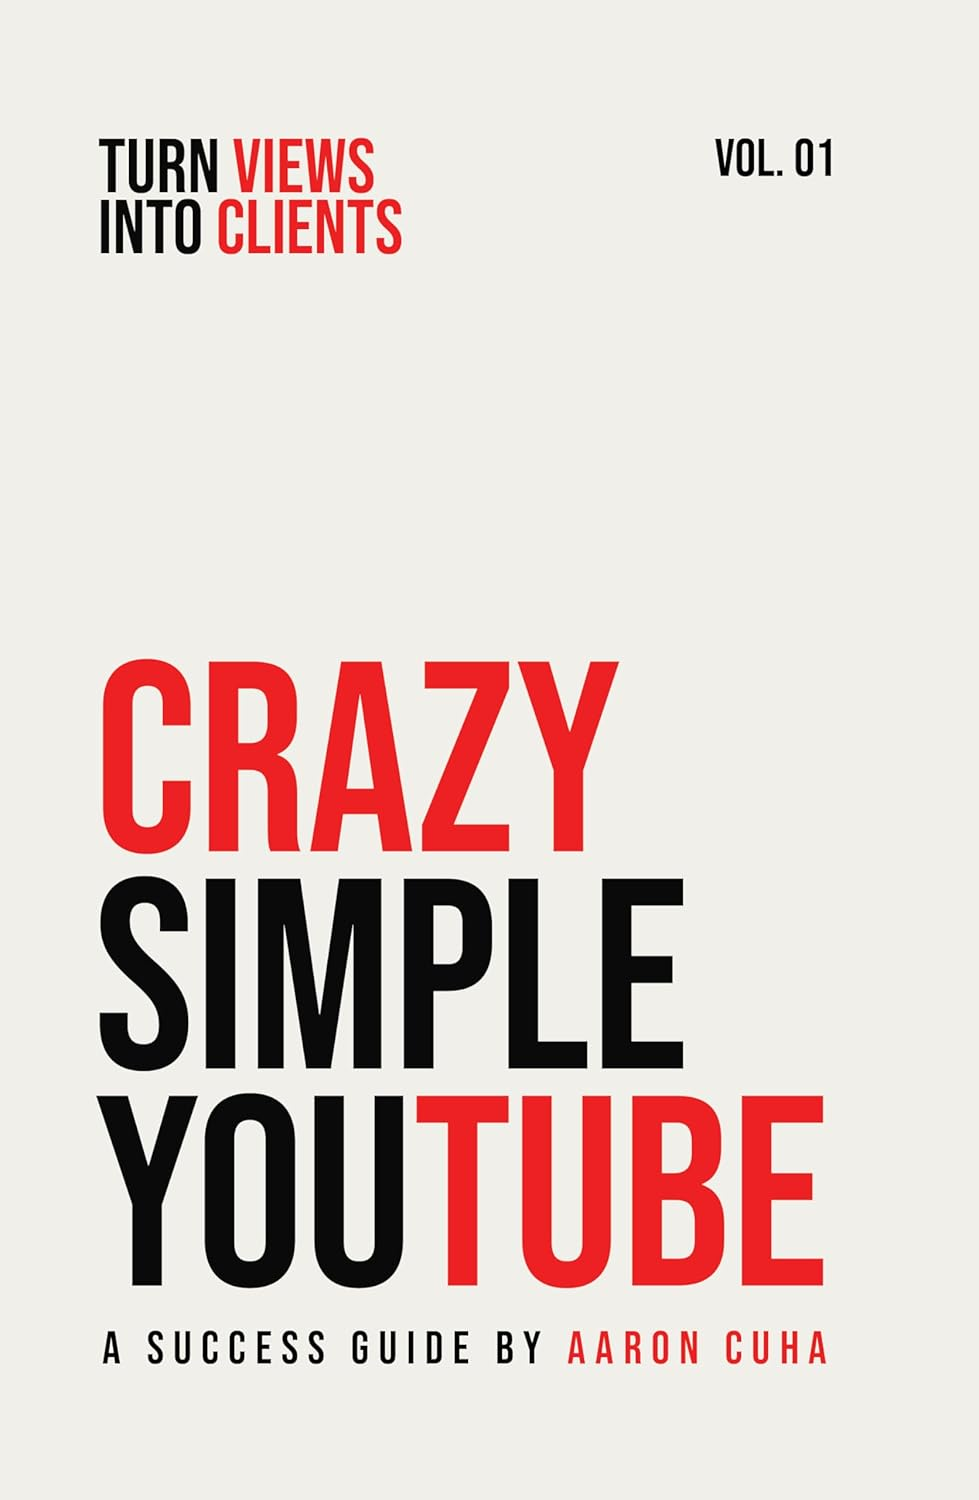
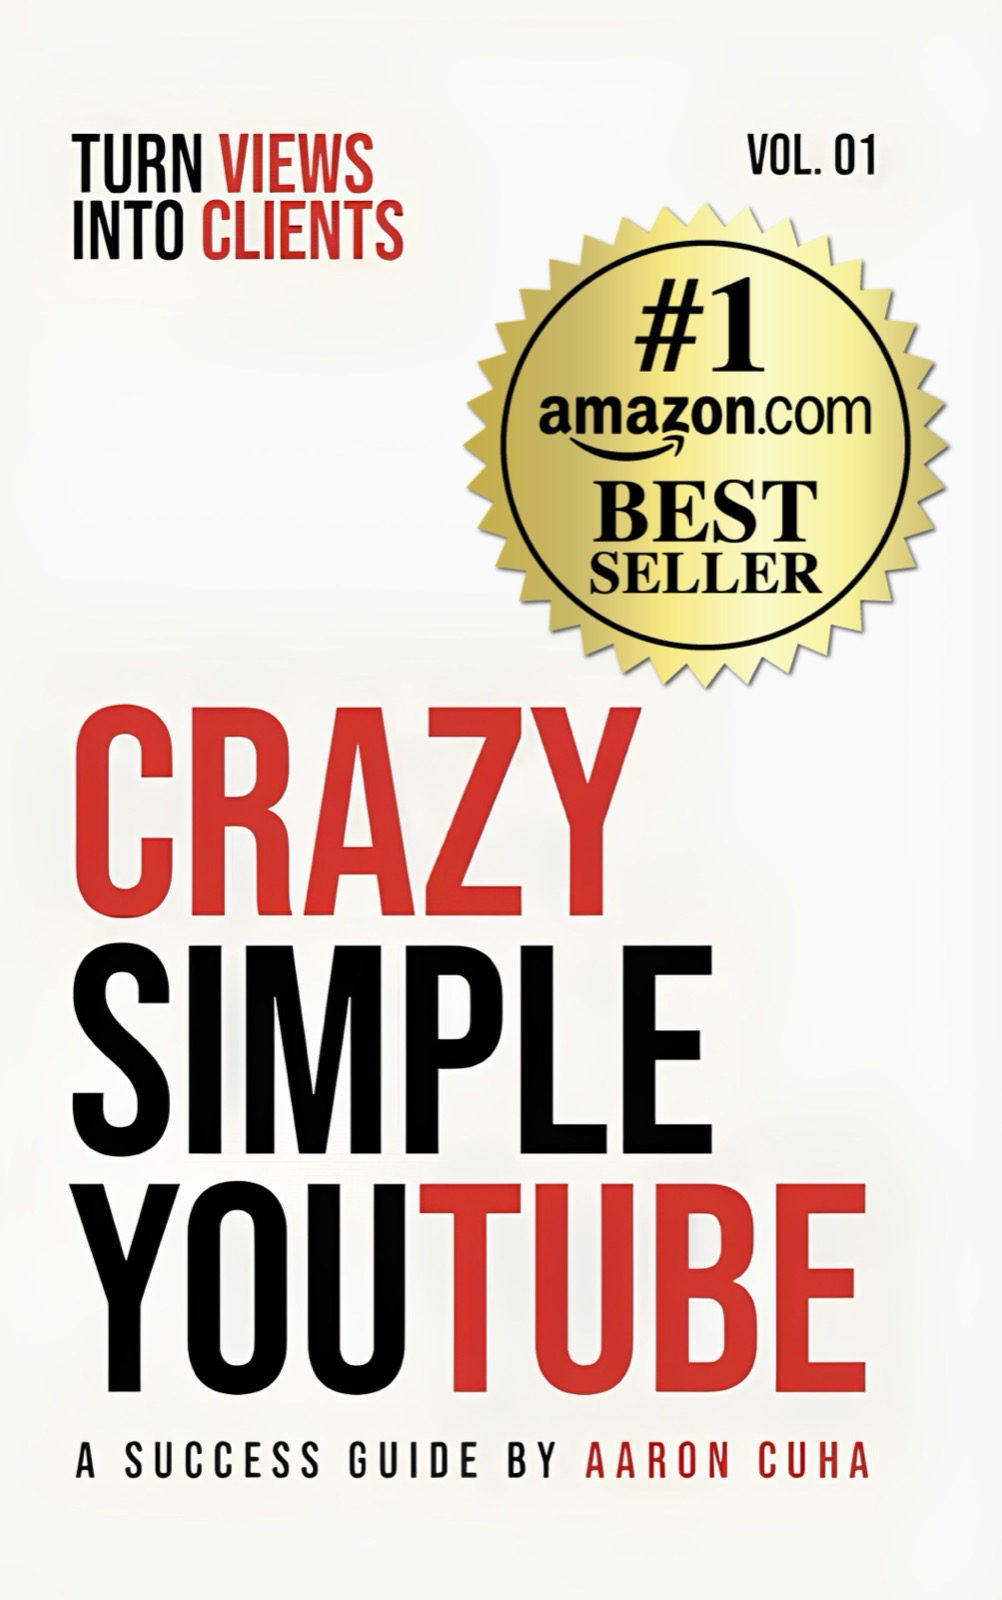
New book covers: Vol. 1 with bestseller seal + Vol. 2 cover
Replaced /public/book-cover.jpg and /public/book-display.jpg with
the updated Vol. 1 cover featuring the #1 Amazon Bestseller seal.

Added /public/book2-cover.jpg with the new Vol. 2 cover.

/book2 page updated to match the new cover:
- Title now reads 'From Clients Into Income' (Vol. 2 subtitle)
- Eyebrow reads 'Crazy Simple YouTube · Vol. 2'
- New grid layout shows the Vol. 2 cover image on the right (mobile:
  above the copy) with a 'Vol. 2 · Coming Soon' badge
- Copy reframed around Vol. 2's content (monetization, team, multi-
  channel, media empire) instead of the previous Set in Stone teaser
- Metadata title + description updated for SEO

Hero alt text updated to reflect #1 Amazon Bestseller status.

Changed region(s): [[0.0613, 0.0613, 0.9499, 0.92], [0.0613, 0.0613, 0.429, 0.184]]

diff --git a/app/book2/page.tsx b/app/book2/page.tsx
@@ -1,12 +1,13 @@
 import type { Metadata } from 'next'
+import Image from 'next/image'
 import Navigation from '@/components/Navigation'
 import Footer from '@/components/Footer'
 import LeadCaptureForm from '@/components/LeadCaptureForm'
 
 export const metadata: Metadata = {
-  title: 'What\'s Next | Aaron Cuha\'s Next Book',
+  title: 'Crazy Simple YouTube Vol. 2 — From Clients Into Income | Aaron Cuha',
   description:
-    'Get notified when Aaron\'s next book drops. Set in Stone is coming. Drop your email for early access pricing and bonus materials.',
+    'Get notified when Crazy Simple YouTube Vol. 2: From Clients Into Income drops. Drop your email for the first chapter free, pre-order pricing, and bonus materials.',
 }
 
 export default function Book2Page() {
@@ -15,25 +16,45 @@ export default function Book2Page() {
       <Navigation />
       <main className="min-h-screen bg-brand-charcoal pt-28 sm:pt-32 pb-16 noise-overlay">
         {/* Hero */}
-        <section className="relative max-w-4xl mx-auto px-5 sm:px-8 mb-16 sm:mb-20">
-          <div className="text-center">
-            <span className="font-body text-xs sm:text-sm tracking-[0.25em] uppercase text-brand-red font-medium">
-              What&apos;s Next
-            </span>
-            <h1 className="mt-4 font-display text-4xl sm:text-5xl lg:text-6xl font-normal uppercase text-brand-cream leading-[0.95]">
-              <span className="text-brand-red">Set in Stone</span>
-              <br />
-              Is Coming.
-            </h1>
-            <p className="mt-6 font-body text-brand-cream/60 text-lg leading-relaxed max-w-2xl mx-auto">
-              Aaron&apos;s next book picks up where mindset meets execution. The
-              architecture for{' '}
-              <strong className="text-brand-cream font-semibold">
-                building businesses that don&apos;t crumble
-              </strong>
-              {' '}when the market shifts, the algorithm changes, or you have a
-              bad month.
-            </p>
+        <section className="relative max-w-5xl mx-auto px-5 sm:px-8 mb-16 sm:mb-20">
+          <div className="grid md:grid-cols-[1fr_280px] lg:grid-cols-[1fr_340px] gap-10 items-center">
+            <div className="text-center md:text-left order-2 md:order-1">
+              <span className="font-body text-xs sm:text-sm tracking-[0.25em] uppercase text-brand-red font-medium">
+                Crazy Simple YouTube · Vol. 2
+              </span>
+              <h1 className="mt-4 font-display text-4xl sm:text-5xl lg:text-6xl font-normal uppercase text-brand-cream leading-[0.95]">
+                From Clients
+                <br />
+                <span className="text-brand-red">Into Income.</span>
+              </h1>
+              <p className="mt-6 font-body text-brand-cream/65 text-lg leading-relaxed">
+                Vol. 1 turned your YouTube channel into a lead machine. Vol. 2
+                turns those leads into{' '}
+                <strong className="text-brand-cream font-semibold">
+                  multiple revenue streams that compound on each other
+                </strong>
+                . Monetization mastery, team and systems, multi-channel
+                domination, the architecture of a media empire.
+              </p>
+            </div>
+
+            {/* Book 2 cover */}
+            <div className="order-1 md:order-2 flex justify-center md:justify-end">
+              <div className="relative">
+                <Image
+                  src="/book2-cover.jpg"
+                  alt="Crazy Simple YouTube Vol. 2 — From Clients Into Income. The next book by Aaron Cuha."
+                  width={340}
+                  height={520}
+                  priority
+                  className="w-[220px] sm:w-[260px] lg:w-[300px] xl:w-[340px] h-auto rounded-xl drop-shadow-[0_20px_60px_rgba(0,0,0,0.5)]"
+                />
+                {/* "Coming Soon" badge */}
+                <div className="absolute -top-3 -right-3 px-3 py-1.5 bg-brand-red text-white text-[0.65rem] font-body font-bold tracking-wider uppercase rounded-full shadow-lg shadow-brand-red/30 whitespace-nowrap">
+                  Vol. 2 · Coming Soon
+                </div>
+              </div>
+            </div>
           </div>
         </section>
 
@@ -45,8 +66,8 @@ export default function Book2Page() {
             </h2>
             <p className="mt-4 font-body text-brand-cream/60 text-center leading-relaxed">
               Drop your email. You&apos;ll be the first to know when{' '}
-              <em>Set in Stone</em> drops, plus you&apos;ll get the first
-              chapter delivered the moment it&apos;s ready.
+              <em>Vol. 2: From Clients Into Income</em> drops, plus you&apos;ll
+              get the first chapter delivered the moment it&apos;s ready.
             </p>
             <div className="mt-7">
               <LeadCaptureForm

diff --git a/components/Hero.tsx b/components/Hero.tsx
@@ -141,7 +141,7 @@ export default function Hero() {
           <div className="relative">
             <Image
               src="/book-display.jpg"
-              alt="Crazy Simple YouTube — A Success Guide by Aaron Cuha. Turn Views Into Clients. Vol. 01."
+              alt="Crazy Simple YouTube Vol. 01 — Turn Views Into Clients. A Success Guide by Aaron Cuha. #1 Amazon Bestseller."
               width={600}
               height={450}
               priority
